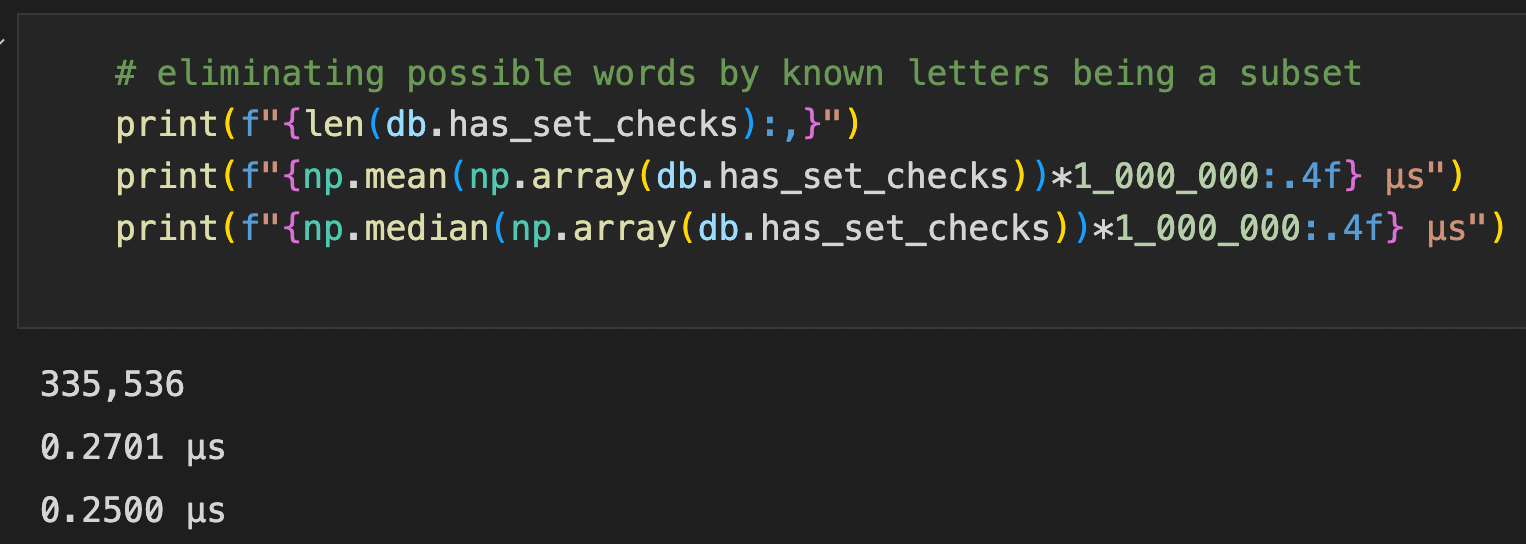
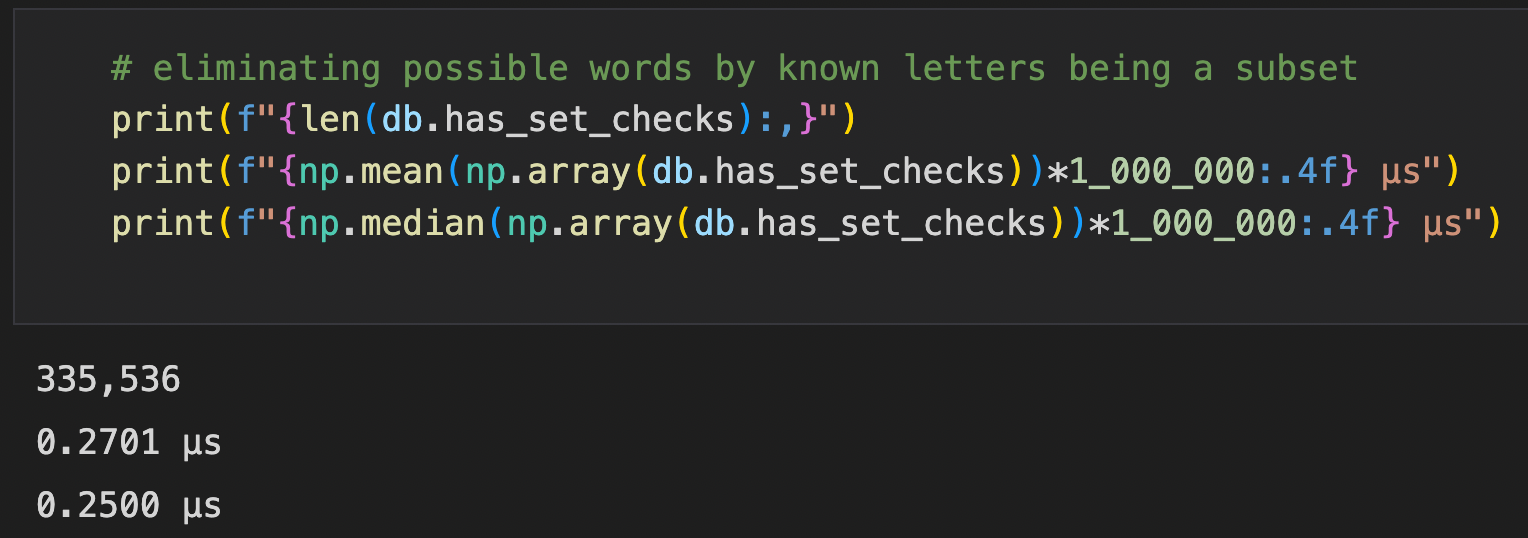
cleaning up image and README

diff --git a/README.md b/README.md
@@ -33,16 +33,16 @@ for word in db.words:
 
 This evaluation produces `words_left` and taking a summary statistic like mean or median this strategy can be judged against other strategies. In this case, `["leaks", "dumby", "wrong"]` on average leaves `9.06` possibilities and the median possible words left is `4`.
 
-## Optimization
+## Optimization of Strategy Evaluation
 
-This evaluation of a strategy against our database of all words is an expensive operation. In the example above, `%%timeit` shows:
+This evaluation of a strategy against the database of words is an expensive operation. In the example above, `%%timeit` shows:
 
 <!-- ![img](./assets/orig_time.png) -->
 <img src=./assets/orig_time.png width=50% >
 
-For 215K possible strategies at 10s a strategy results in ~600 hours of compute. Using multiple will lead to linear scaling. While this is possible for a cluster to compute in a reasonable time, optimizing single threaded performance can make this more feasible.
+For 215K possible strategies at approx. 10s a strategy, the compute time would be ~600 hours. Using multiple cores or a cluster will lead to linear scaling for this problem. While this is possible for a large cluster to compute in a reasonable time, optimizing single threaded performance and sub-sampling the problem space can produce meaningful results for feasible time and compute.
 
-Querying consists of determining the possible words left given an `Information` object. The information at any point in a Wordle game can be characterized by 4 sets of information: letters in `hidden_word`, letters not in `hidden_word`, letters in known position of `hidden_word`, and letters not in a position of `hidden_word`. Testing if a word meets all these criteria determines if it is still eligible. Profiling how expensive each operation is results in:
+Querying consists of determining the possible words left given an `Information` object. The _information_ at any point in a Wordle game can be characterized by 4 sets: letters in `hidden_word`, letters not in `hidden_word`, letters in known position of `hidden_word`, and letters not in a position of `hidden_word`. Testing a word against these 4 criteria determines if a word is eligible. Profiling how expensive each operation is results in:
 
 <!-- ![img](./assets/query_profile/has_set.png)
 ![img](./assets/query_profile/not_set.png)
